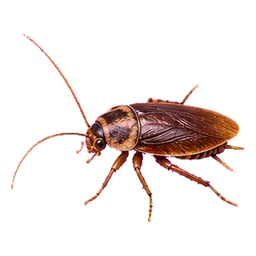
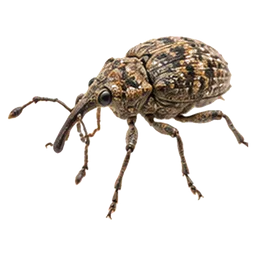
Raid and cocoon habitat photos; HD pictures for Snuitkever and Herculeslarve
Owner-supplied images: raid/cocon backdrops for bugs from raids and
cocoons; weevil and beetle grub cut out from white for the two species
that had no usable picture. The other supplied bug crops were marked as
upscaled placeholders and are not used (existing bugdex art is kept).

diff --git a/src/artV2.tsx b/src/artV2.tsx
@@ -6,6 +6,7 @@ import {RARITIES,rarityFor} from '../game/progressionV2';
 import {legacyArt} from './legacyArtV2';
 import {bugPortraits} from './bugPortraitsV2';
 import {bugIllustrations} from './bugIllustrationsV2';
+import {extraBugIllustrations} from './bugIllustrationsExtraV3';
 import {portraitThumbs} from './portraitThumbsV2';
 import {Glyph,MotionPrefs,Wash,V} from './uiV2';
 import {AmbientV2,ShinySparklesV2,useActiveMotion} from './WorldEffectsV2';
@@ -28,7 +29,7 @@ export const SpriteView=React.memo(function SpriteView({id,size=70,shiny=false,f
   const loop=Animated.loop(Animated.sequence([Animated.timing(bob,{toValue:1,duration,easing:Easing.inOut(Easing.sin),useNativeDriver:Platform.OS!=='web'}),Animated.timing(bob,{toValue:0,duration,easing:Easing.inOut(Easing.sin),useNativeDriver:Platform.OS!=='web'})]));
   loop.start();return()=>loop.stop();
  },[active,bob,seed,flying]);
- const kind=species(id),illustration=!shiny?bugIllustrations[id]:undefined,source=(size<=150?illustration?.thumb:illustration?.hd)??(size<=150?portraitThumbs[id]?.[shiny?1:0]:undefined)??bugPortraits[id]?.[shiny?1:0]??legacyArt[id]??legacyArt[['caterpillar','midge','silkworm','luna','ant','moth'][Math.max(0,['larva','midgeToken','silkToken','lunaToken','antToken','mothToken'].indexOf(id))]];
+ const kind=species(id),illustration=!shiny?bugIllustrations[id]??extraBugIllustrations[id]:undefined,source=(size<=150?illustration?.thumb:illustration?.hd)??(size<=150?portraitThumbs[id]?.[shiny?1:0]:undefined)??bugPortraits[id]?.[shiny?1:0]??legacyArt[id]??legacyArt[['caterpillar','midge','silkworm','luna','ant','moth'][Math.max(0,['larva','midgeToken','silkToken','lunaToken','antToken','mothToken'].indexOf(id))]];
  return <View accessibilityLabel={silhouette?'Nog niet ontdekt':kind.name+(shiny?', shiny':'')} style={{width:size,height:size,overflow:'hidden',transform:[{scaleX:flip?-1:1}],opacity:silhouette?.55:1}}><Animated.View testID={animate?'living-bug':undefined} style={{width:size,height:size,transform:[{translateY:bob.interpolate({inputRange:[0,1],outputRange:[0,flying?-5:-2]})},{rotate:bob.interpolate({inputRange:[0,1],outputRange:['0deg',(seed%2?1:-1)*(flying?1.8:.7)+'deg']})},{scale:bob.interpolate({inputRange:[0,1],outputRange:[1,flying?1.015:1.025]})}],filter:shiny&&!bugPortraits[id]?[{hueRotate:'100deg'},{saturate:1.25}]:[]}}><Image source={source} resizeMode="contain" style={{width:size,height:size,...(silhouette?{tintColor:'#071613'}:{})}}/></Animated.View>{ribbon>0&&<View style={{position:'absolute',top:4,left:4,padding:3,borderRadius:12,backgroundColor:ribbon>1?'#ECD48B':'#FFFFFFDD'}}><Glyph name="heart" size={12} color="#277760"/></View>}{shiny&&!silhouette&&<ShinySparklesV2 size={size}/>}</View>;
 });
 export function Scene({index=0,children,dim=0,animated=false}:{index?:number;children?:React.ReactNode;dim?:number;animated?:boolean}){return <View pointerEvents="box-none" style={StyleSheet.absoluteFill}><View pointerEvents="none" style={[StyleSheet.absoluteFill,{overflow:'hidden'}]}>{index===0||index===4||index===5?<Image source={index===4?arena:meadow} blurRadius={index===5?8:0} resizeMode="cover" style={{position:'absolute',left:0,top:0,width:'100%',height:'100%'}}/>:Platform.OS!=='web'?<NativeLandscape index={index}/>:<Svg width="100%" height="100%" viewBox={`${index%2*512} ${Math.floor(index/2)*512} 512 512`} preserveAspectRatio="xMidYMid slice"><SvgImage href={landscape} x={0} y={0} width={1024} height={1536}/></Svg>}{dim>0&&<View style={[StyleSheet.absoluteFill,{backgroundColor:`rgba(10,32,34,${dim})`}]}/>}{animated&&<AmbientV2 night={index===1||index===4}/>}</View>{children}</View>;}

diff --git a/src/BugDetailArtV3.tsx b/src/BugDetailArtV3.tsx
@@ -10,12 +10,13 @@ const ART={
  water:require('../assets/v2/habitats/habitat-water.webp'),lucht:require('../assets/v2/habitats/habitat-lucht.webp'),
  grond:require('../assets/v2/habitats/habitat-grond.webp'),weide:require('../assets/v2/habitats/habitat-weide.webp'),
  donker:require('../assets/v2/habitats/habitat-donker.webp'),vuur:require('../assets/v2/habitats/habitat-vuur.webp'),
- arena:require('../assets/v3/arcade/arena.webp'),
+ raid:require('../assets/v2/habitats/habitat-raid.webp'),cocon:require('../assets/v2/habitats/habitat-cocon.webp'),
 } as const;
 // Habitat photos: assets/v2/habitats (source.json). New ones only need an entry here and a rule in bugHabitat.
 type Habitat=keyof typeof ART;
 export function bugHabitat(s:Specimen):Habitat{
- if(s.source==='raid'||s.catchLocation?.boss)return 'arena';
+ if(s.source==='raid'||s.catchLocation?.boss)return 'raid';
+ if(s.source==='cocoon')return 'cocon';
  const t=movePool(s.species).types;
  if(t.includes('water'))return 'water';
  if(t.includes('fire'))return 'vuur';

diff --git a/src/bugIllustrationsExtraV3.ts b/src/bugIllustrationsExtraV3.ts
@@ -1,0 +1,8 @@
+import type {ImageSourcePropType} from 'react-native';
+// HD illustrations supplied by the project owner (AI-generated, 10 Nov 2026) for species without a usable picture in the
+// original bugdex. Kept apart from the generated src/bugIllustrationsV2.ts so a re-import never overwrites them.
+// Provenance: assets/v2/illustrations/source-extra.json. Shinies keep their model-matched portraits.
+export const extraBugIllustrations:Record<string,{hd:ImageSourcePropType;thumb:ImageSourcePropType}>={
+ 'weevil':{hd:require('../assets/v2/illustrations/weevil.webp'),thumb:require('../assets/v2/illustrations/thumbs/weevil.webp')},
+ 'beetlegrub':{hd:require('../assets/v2/illustrations/beetlegrub.webp'),thumb:require('../assets/v2/illustrations/thumbs/beetlegrub.webp')},
+};
